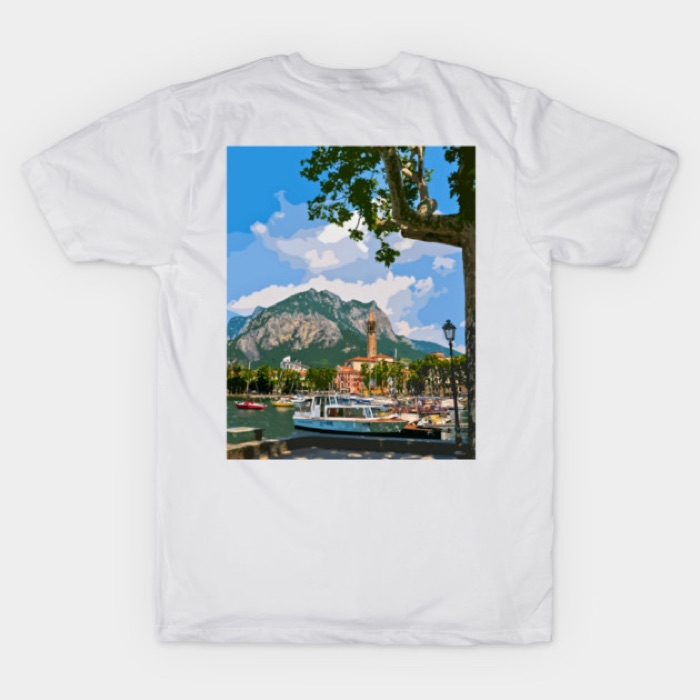
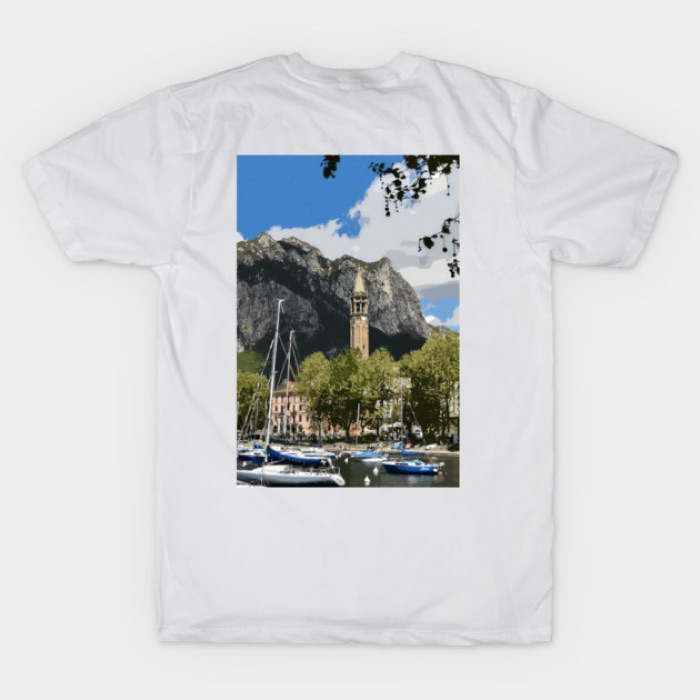
Update Lecco design/t-shirt photo, reorder reviews, style testimonials
- New Lecco artwork and matching updated t-shirt mockup from TeePublic
- Reviews now show 5-star ones first, then 4-star, then 3-star
- Testimonials section gets its own light-blue background and top
  accent to stand out from the sections around it

Changed region(s): [[0.3, 0.21, 0.69, 0.72]]

diff --git a/index.html b/index.html
@@ -9,7 +9,7 @@
 <link rel="preconnect" href="https://fonts.googleapis.com">
 <link rel="preconnect" href="https://fonts.gstatic.com" crossorigin>
 <link href="https://fonts.googleapis.com/css2?family=Great+Vibes&family=Raleway:wght@300;400;500;600&family=Playfair+Display:ital,wght@0,400;0,500;1,400&display=swap" rel="stylesheet">
-<link rel="stylesheet" href="css/style.css?v=2">
+<link rel="stylesheet" href="css/style.css?v=3">
 </head>
 <body>
 
@@ -170,8 +170,7 @@
     <div class="divider-line"></div>
     <div class="reviews-carousel">
     <button type="button" class="reviews-arrow reviews-arrow-prev" id="reviewsPrev" aria-label="Precedente">&larr;</button>
-    <div class="reviews-grid" id="reviewsGrid">
-      <div class="review-card">
+    <div class="reviews-grid" id="reviewsGrid"><div class="review-card">
         <div class="stars">
           <svg class="star-svg" viewBox="0 0 24 24"><path d="M12 2l3.09 6.26L22 9.27l-5 4.87 1.18 6.88L12 17.77l-6.18 3.25L7 14.14 2 9.27l6.91-1.01L12 2z"/></svg>
           <svg class="star-svg" viewBox="0 0 24 24"><path d="M12 2l3.09 6.26L22 9.27l-5 4.87 1.18 6.88L12 17.77l-6.18 3.25L7 14.14 2 9.27l6.91-1.01L12 2z"/></svg>
@@ -182,18 +181,7 @@
         <p class="review-text" data-i18n="reviews.r1.text">&ldquo;Ho comprato una t-shirt come ricordo della mia visita a Como. Qualit&agrave; eccellente, design unico &mdash; non si trova da nessun'altra parte.&rdquo;</p>
         <p class="review-author">Sarah M. <span data-i18n="reviews.r1.author">&middot; Londra, UK</span></p>
       </div>
-      <div class="review-card">
-        <div class="stars">
-          <svg class="star-svg" viewBox="0 0 24 24"><path d="M12 2l3.09 6.26L22 9.27l-5 4.87 1.18 6.88L12 17.77l-6.18 3.25L7 14.14 2 9.27l6.91-1.01L12 2z"/></svg>
-          <svg class="star-svg" viewBox="0 0 24 24"><path d="M12 2l3.09 6.26L22 9.27l-5 4.87 1.18 6.88L12 17.77l-6.18 3.25L7 14.14 2 9.27l6.91-1.01L12 2z"/></svg>
-          <svg class="star-svg" viewBox="0 0 24 24"><path d="M12 2l3.09 6.26L22 9.27l-5 4.87 1.18 6.88L12 17.77l-6.18 3.25L7 14.14 2 9.27l6.91-1.01L12 2z"/></svg>
-          <svg class="star-svg" viewBox="0 0 24 24"><path d="M12 2l3.09 6.26L22 9.27l-5 4.87 1.18 6.88L12 17.77l-6.18 3.25L7 14.14 2 9.27l6.91-1.01L12 2z"/></svg>
-          <svg class="star-svg star-empty" viewBox="0 0 24 24"><path d="M12 2l3.09 6.26L22 9.27l-5 4.87 1.18 6.88L12 17.77l-6.18 3.25L7 14.14 2 9.27l6.91-1.01L12 2z"/></svg>
-        </div>
-        <p class="review-text" data-i18n="reviews.r2.text">&ldquo;Ho proposto i prodotti nel mio negozio a Bellagio e i turisti li adorano. Design esclusivo, logistica semplicissima.&rdquo;</p>
-        <p class="review-author">Marco V. <span data-i18n="reviews.r2.author">&middot; Negozio, Bellagio</span></p>
-      </div>
-      <div class="review-card">
+<div class="review-card">
         <div class="stars">
           <svg class="star-svg" viewBox="0 0 24 24"><path d="M12 2l3.09 6.26L22 9.27l-5 4.87 1.18 6.88L12 17.77l-6.18 3.25L7 14.14 2 9.27l6.91-1.01L12 2z"/></svg>
           <svg class="star-svg" viewBox="0 0 24 24"><path d="M12 2l3.09 6.26L22 9.27l-5 4.87 1.18 6.88L12 17.77l-6.18 3.25L7 14.14 2 9.27l6.91-1.01L12 2z"/></svg>
@@ -204,62 +192,7 @@
         <p class="review-text" data-i18n="reviews.r3.text">&ldquo;Il poster di Varenna nella mia sala &egrave; uno spettacolo. Stampa di qualit&agrave; elevatissima, arrivata in tempi perfetti.&rdquo;</p>
         <p class="review-author">Klaus B. <span data-i18n="reviews.r3.author">&middot; Monaco, DE</span></p>
       </div>
-      <div class="review-card">
-        <div class="stars">
-          <svg class="star-svg" viewBox="0 0 24 24"><path d="M12 2l3.09 6.26L22 9.27l-5 4.87 1.18 6.88L12 17.77l-6.18 3.25L7 14.14 2 9.27l6.91-1.01L12 2z"/></svg>
-          <svg class="star-svg" viewBox="0 0 24 24"><path d="M12 2l3.09 6.26L22 9.27l-5 4.87 1.18 6.88L12 17.77l-6.18 3.25L7 14.14 2 9.27l6.91-1.01L12 2z"/></svg>
-          <svg class="star-svg" viewBox="0 0 24 24"><path d="M12 2l3.09 6.26L22 9.27l-5 4.87 1.18 6.88L12 17.77l-6.18 3.25L7 14.14 2 9.27l6.91-1.01L12 2z"/></svg>
-          <svg class="star-svg star-empty" viewBox="0 0 24 24"><path d="M12 2l3.09 6.26L22 9.27l-5 4.87 1.18 6.88L12 17.77l-6.18 3.25L7 14.14 2 9.27l6.91-1.01L12 2z"/></svg>
-          <svg class="star-svg star-empty" viewBox="0 0 24 24"><path d="M12 2l3.09 6.26L22 9.27l-5 4.87 1.18 6.88L12 17.77l-6.18 3.25L7 14.14 2 9.27l6.91-1.01L12 2z"/></svg>
-        </div>
-        <p class="review-text" data-i18n="reviews.r4.text">&ldquo;La grafica della t-shirt &egrave; davvero originale e rappresenta bene il Lago di Como. La vestibilit&agrave; per&ograve; &egrave; risultata un po&rsquo; pi&ugrave; piccola del previsto.&rdquo;</p>
-        <p class="review-author">Emily R. <span data-i18n="reviews.r4.author">&middot; Manchester, UK</span></p>
-      </div>
-      <div class="review-card">
-        <div class="stars">
-          <svg class="star-svg" viewBox="0 0 24 24"><path d="M12 2l3.09 6.26L22 9.27l-5 4.87 1.18 6.88L12 17.77l-6.18 3.25L7 14.14 2 9.27l6.91-1.01L12 2z"/></svg>
-          <svg class="star-svg" viewBox="0 0 24 24"><path d="M12 2l3.09 6.26L22 9.27l-5 4.87 1.18 6.88L12 17.77l-6.18 3.25L7 14.14 2 9.27l6.91-1.01L12 2z"/></svg>
-          <svg class="star-svg" viewBox="0 0 24 24"><path d="M12 2l3.09 6.26L22 9.27l-5 4.87 1.18 6.88L12 17.77l-6.18 3.25L7 14.14 2 9.27l6.91-1.01L12 2z"/></svg>
-          <svg class="star-svg" viewBox="0 0 24 24"><path d="M12 2l3.09 6.26L22 9.27l-5 4.87 1.18 6.88L12 17.77l-6.18 3.25L7 14.14 2 9.27l6.91-1.01L12 2z"/></svg>
-          <svg class="star-svg star-empty" viewBox="0 0 24 24"><path d="M12 2l3.09 6.26L22 9.27l-5 4.87 1.18 6.88L12 17.77l-6.18 3.25L7 14.14 2 9.27l6.91-1.01L12 2z"/></svg>
-        </div>
-        <p class="review-text" data-i18n="reviews.r5.text">&ldquo;Ho acquistato una stampa di Bellagio come regalo ed &egrave; stata molto apprezzata. Colori bellissimi e confezione curata.&rdquo;</p>
-        <p class="review-author">Sophie L. <span data-i18n="reviews.r5.author">&middot; Lione, FR</span></p>
-      </div>
-      <div class="review-card">
-        <div class="stars">
-          <svg class="star-svg" viewBox="0 0 24 24"><path d="M12 2l3.09 6.26L22 9.27l-5 4.87 1.18 6.88L12 17.77l-6.18 3.25L7 14.14 2 9.27l6.91-1.01L12 2z"/></svg>
-          <svg class="star-svg" viewBox="0 0 24 24"><path d="M12 2l3.09 6.26L22 9.27l-5 4.87 1.18 6.88L12 17.77l-6.18 3.25L7 14.14 2 9.27l6.91-1.01L12 2z"/></svg>
-          <svg class="star-svg" viewBox="0 0 24 24"><path d="M12 2l3.09 6.26L22 9.27l-5 4.87 1.18 6.88L12 17.77l-6.18 3.25L7 14.14 2 9.27l6.91-1.01L12 2z"/></svg>
-          <svg class="star-svg" viewBox="0 0 24 24"><path d="M12 2l3.09 6.26L22 9.27l-5 4.87 1.18 6.88L12 17.77l-6.18 3.25L7 14.14 2 9.27l6.91-1.01L12 2z"/></svg>
-          <svg class="star-svg star-empty" viewBox="0 0 24 24"><path d="M12 2l3.09 6.26L22 9.27l-5 4.87 1.18 6.88L12 17.77l-6.18 3.25L7 14.14 2 9.27l6.91-1.01L12 2z"/></svg>
-        </div>
-        <p class="review-text" data-i18n="reviews.r6.text">&ldquo;Design elegante e diverso dai soliti souvenir turistici. La spedizione ha richiesto qualche giorno in pi&ugrave;, ma il prodotto &egrave; ottimo.&rdquo;</p>
-        <p class="review-author">Thomas K. <span data-i18n="reviews.r6.author">&middot; Zurigo, CH</span></p>
-      </div>
-      <div class="review-card">
-        <div class="stars">
-          <svg class="star-svg" viewBox="0 0 24 24"><path d="M12 2l3.09 6.26L22 9.27l-5 4.87 1.18 6.88L12 17.77l-6.18 3.25L7 14.14 2 9.27l6.91-1.01L12 2z"/></svg>
-          <svg class="star-svg" viewBox="0 0 24 24"><path d="M12 2l3.09 6.26L22 9.27l-5 4.87 1.18 6.88L12 17.77l-6.18 3.25L7 14.14 2 9.27l6.91-1.01L12 2z"/></svg>
-          <svg class="star-svg" viewBox="0 0 24 24"><path d="M12 2l3.09 6.26L22 9.27l-5 4.87 1.18 6.88L12 17.77l-6.18 3.25L7 14.14 2 9.27l6.91-1.01L12 2z"/></svg>
-          <svg class="star-svg" viewBox="0 0 24 24"><path d="M12 2l3.09 6.26L22 9.27l-5 4.87 1.18 6.88L12 17.77l-6.18 3.25L7 14.14 2 9.27l6.91-1.01L12 2z"/></svg>
-          <svg class="star-svg star-empty" viewBox="0 0 24 24"><path d="M12 2l3.09 6.26L22 9.27l-5 4.87 1.18 6.88L12 17.77l-6.18 3.25L7 14.14 2 9.27l6.91-1.01L12 2z"/></svg>
-        </div>
-        <p class="review-text" data-i18n="reviews.r7.text">&ldquo;Le cartoline illustrate hanno attirato subito l&rsquo;attenzione dei clienti del nostro concept store. Riordino semplice e assistenza disponibile.&rdquo;</p>
-        <p class="review-author">Giulia P. <span data-i18n="reviews.r7.author">&middot; Como, IT</span></p>
-      </div>
-      <div class="review-card">
-        <div class="stars">
-          <svg class="star-svg" viewBox="0 0 24 24"><path d="M12 2l3.09 6.26L22 9.27l-5 4.87 1.18 6.88L12 17.77l-6.18 3.25L7 14.14 2 9.27l6.91-1.01L12 2z"/></svg>
-          <svg class="star-svg" viewBox="0 0 24 24"><path d="M12 2l3.09 6.26L22 9.27l-5 4.87 1.18 6.88L12 17.77l-6.18 3.25L7 14.14 2 9.27l6.91-1.01L12 2z"/></svg>
-          <svg class="star-svg" viewBox="0 0 24 24"><path d="M12 2l3.09 6.26L22 9.27l-5 4.87 1.18 6.88L12 17.77l-6.18 3.25L7 14.14 2 9.27l6.91-1.01L12 2z"/></svg>
-          <svg class="star-svg" viewBox="0 0 24 24"><path d="M12 2l3.09 6.26L22 9.27l-5 4.87 1.18 6.88L12 17.77l-6.18 3.25L7 14.14 2 9.27l6.91-1.01L12 2z"/></svg>
-          <svg class="star-svg star-empty" viewBox="0 0 24 24"><path d="M12 2l3.09 6.26L22 9.27l-5 4.87 1.18 6.88L12 17.77l-6.18 3.25L7 14.14 2 9.27l6.91-1.01L12 2z"/></svg>
-        </div>
-        <p class="review-text" data-i18n="reviews.r8.text">&ldquo;La felpa &egrave; morbida, ben rifinita e conserva perfettamente i colori dopo il lavaggio. Avrei gradito qualche taglia in pi&ugrave;.&rdquo;</p>
-        <p class="review-author">Daniel W. <span data-i18n="reviews.r8.author">&middot; Berlino, DE</span></p>
-      </div>
-      <div class="review-card">
+<div class="review-card">
         <div class="stars">
           <svg class="star-svg" viewBox="0 0 24 24"><path d="M12 2l3.09 6.26L22 9.27l-5 4.87 1.18 6.88L12 17.77l-6.18 3.25L7 14.14 2 9.27l6.91-1.01L12 2z"/></svg>
           <svg class="star-svg" viewBox="0 0 24 24"><path d="M12 2l3.09 6.26L22 9.27l-5 4.87 1.18 6.88L12 17.77l-6.18 3.25L7 14.14 2 9.27l6.91-1.01L12 2z"/></svg>
@@ -270,7 +203,7 @@
         <p class="review-text" data-i18n="reviews.r9.text">&ldquo;Finalmente un ricordo del Lago di Como che posso indossare anche tutti i giorni. La stampa &egrave; raffinata e il tessuto davvero piacevole.&rdquo;</p>
         <p class="review-author">Olivia S. <span data-i18n="reviews.r9.author">&middot; Bristol, UK</span></p>
       </div>
-      <div class="review-card">
+<div class="review-card">
         <div class="stars">
           <svg class="star-svg" viewBox="0 0 24 24"><path d="M12 2l3.09 6.26L22 9.27l-5 4.87 1.18 6.88L12 17.77l-6.18 3.25L7 14.14 2 9.27l6.91-1.01L12 2z"/></svg>
           <svg class="star-svg" viewBox="0 0 24 24"><path d="M12 2l3.09 6.26L22 9.27l-5 4.87 1.18 6.88L12 17.77l-6.18 3.25L7 14.14 2 9.27l6.91-1.01L12 2z"/></svg>
@@ -281,7 +214,7 @@
         <p class="review-text" data-i18n="reviews.r10.text">&ldquo;Abbiamo inserito poster e t-shirt nel nostro hotel boutique e gli ospiti chiedono continuamente dove acquistarli. Una collaborazione eccellente.&rdquo;</p>
         <p class="review-author">Andrea C. <span data-i18n="reviews.r10.author">&middot; Menaggio, IT</span></p>
       </div>
-      <div class="review-card">
+<div class="review-card">
         <div class="stars">
           <svg class="star-svg" viewBox="0 0 24 24"><path d="M12 2l3.09 6.26L22 9.27l-5 4.87 1.18 6.88L12 17.77l-6.18 3.25L7 14.14 2 9.27l6.91-1.01L12 2z"/></svg>
           <svg class="star-svg" viewBox="0 0 24 24"><path d="M12 2l3.09 6.26L22 9.27l-5 4.87 1.18 6.88L12 17.77l-6.18 3.25L7 14.14 2 9.27l6.91-1.01L12 2z"/></svg>
@@ -292,7 +225,7 @@
         <p class="review-text" data-i18n="reviews.r11.text">&ldquo;Il poster di Como ha trasformato un angolo del mio studio. La carta &egrave; spessa, i colori splendidi e l&rsquo;imballaggio impeccabile.&rdquo;</p>
         <p class="review-author">Claire D. <span data-i18n="reviews.r11.author">&middot; Parigi, FR</span></p>
       </div>
-      <div class="review-card">
+<div class="review-card">
         <div class="stars">
           <svg class="star-svg" viewBox="0 0 24 24"><path d="M12 2l3.09 6.26L22 9.27l-5 4.87 1.18 6.88L12 17.77l-6.18 3.25L7 14.14 2 9.27l6.91-1.01L12 2z"/></svg>
           <svg class="star-svg" viewBox="0 0 24 24"><path d="M12 2l3.09 6.26L22 9.27l-5 4.87 1.18 6.88L12 17.77l-6.18 3.25L7 14.14 2 9.27l6.91-1.01L12 2z"/></svg>
@@ -303,7 +236,7 @@
         <p class="review-text" data-i18n="reviews.r12.text">&ldquo;Ho comprato due t-shirt durante il viaggio: una per me e una da regalare. Sono diventate il souvenir preferito di tutta la vacanza.&rdquo;</p>
         <p class="review-author">Michael T. <span data-i18n="reviews.r12.author">&middot; Dublino, IE</span></p>
       </div>
-      <div class="review-card">
+<div class="review-card">
         <div class="stars">
           <svg class="star-svg" viewBox="0 0 24 24"><path d="M12 2l3.09 6.26L22 9.27l-5 4.87 1.18 6.88L12 17.77l-6.18 3.25L7 14.14 2 9.27l6.91-1.01L12 2z"/></svg>
           <svg class="star-svg" viewBox="0 0 24 24"><path d="M12 2l3.09 6.26L22 9.27l-5 4.87 1.18 6.88L12 17.77l-6.18 3.25L7 14.14 2 9.27l6.91-1.01L12 2z"/></svg>
@@ -315,6 +248,72 @@
         <p class="review-author">Francesca B. <span data-i18n="reviews.r13.author">&middot; Boutique Varenna, IT</span></p>
       </div>
     </div>
+<div class="review-card">
+        <div class="stars">
+          <svg class="star-svg" viewBox="0 0 24 24"><path d="M12 2l3.09 6.26L22 9.27l-5 4.87 1.18 6.88L12 17.77l-6.18 3.25L7 14.14 2 9.27l6.91-1.01L12 2z"/></svg>
+          <svg class="star-svg" viewBox="0 0 24 24"><path d="M12 2l3.09 6.26L22 9.27l-5 4.87 1.18 6.88L12 17.77l-6.18 3.25L7 14.14 2 9.27l6.91-1.01L12 2z"/></svg>
+          <svg class="star-svg" viewBox="0 0 24 24"><path d="M12 2l3.09 6.26L22 9.27l-5 4.87 1.18 6.88L12 17.77l-6.18 3.25L7 14.14 2 9.27l6.91-1.01L12 2z"/></svg>
+          <svg class="star-svg" viewBox="0 0 24 24"><path d="M12 2l3.09 6.26L22 9.27l-5 4.87 1.18 6.88L12 17.77l-6.18 3.25L7 14.14 2 9.27l6.91-1.01L12 2z"/></svg>
+          <svg class="star-svg star-empty" viewBox="0 0 24 24"><path d="M12 2l3.09 6.26L22 9.27l-5 4.87 1.18 6.88L12 17.77l-6.18 3.25L7 14.14 2 9.27l6.91-1.01L12 2z"/></svg>
+        </div>
+        <p class="review-text" data-i18n="reviews.r2.text">&ldquo;Ho proposto i prodotti nel mio negozio a Bellagio e i turisti li adorano. Design esclusivo, logistica semplicissima.&rdquo;</p>
+        <p class="review-author">Marco V. <span data-i18n="reviews.r2.author">&middot; Negozio, Bellagio</span></p>
+      </div>
+<div class="review-card">
+        <div class="stars">
+          <svg class="star-svg" viewBox="0 0 24 24"><path d="M12 2l3.09 6.26L22 9.27l-5 4.87 1.18 6.88L12 17.77l-6.18 3.25L7 14.14 2 9.27l6.91-1.01L12 2z"/></svg>
+          <svg class="star-svg" viewBox="0 0 24 24"><path d="M12 2l3.09 6.26L22 9.27l-5 4.87 1.18 6.88L12 17.77l-6.18 3.25L7 14.14 2 9.27l6.91-1.01L12 2z"/></svg>
+          <svg class="star-svg" viewBox="0 0 24 24"><path d="M12 2l3.09 6.26L22 9.27l-5 4.87 1.18 6.88L12 17.77l-6.18 3.25L7 14.14 2 9.27l6.91-1.01L12 2z"/></svg>
+          <svg class="star-svg" viewBox="0 0 24 24"><path d="M12 2l3.09 6.26L22 9.27l-5 4.87 1.18 6.88L12 17.77l-6.18 3.25L7 14.14 2 9.27l6.91-1.01L12 2z"/></svg>
+          <svg class="star-svg star-empty" viewBox="0 0 24 24"><path d="M12 2l3.09 6.26L22 9.27l-5 4.87 1.18 6.88L12 17.77l-6.18 3.25L7 14.14 2 9.27l6.91-1.01L12 2z"/></svg>
+        </div>
+        <p class="review-text" data-i18n="reviews.r5.text">&ldquo;Ho acquistato una stampa di Bellagio come regalo ed &egrave; stata molto apprezzata. Colori bellissimi e confezione curata.&rdquo;</p>
+        <p class="review-author">Sophie L. <span data-i18n="reviews.r5.author">&middot; Lione, FR</span></p>
+      </div>
+<div class="review-card">
+        <div class="stars">
+          <svg class="star-svg" viewBox="0 0 24 24"><path d="M12 2l3.09 6.26L22 9.27l-5 4.87 1.18 6.88L12 17.77l-6.18 3.25L7 14.14 2 9.27l6.91-1.01L12 2z"/></svg>
+          <svg class="star-svg" viewBox="0 0 24 24"><path d="M12 2l3.09 6.26L22 9.27l-5 4.87 1.18 6.88L12 17.77l-6.18 3.25L7 14.14 2 9.27l6.91-1.01L12 2z"/></svg>
+          <svg class="star-svg" viewBox="0 0 24 24"><path d="M12 2l3.09 6.26L22 9.27l-5 4.87 1.18 6.88L12 17.77l-6.18 3.25L7 14.14 2 9.27l6.91-1.01L12 2z"/></svg>
+          <svg class="star-svg" viewBox="0 0 24 24"><path d="M12 2l3.09 6.26L22 9.27l-5 4.87 1.18 6.88L12 17.77l-6.18 3.25L7 14.14 2 9.27l6.91-1.01L12 2z"/></svg>
+          <svg class="star-svg star-empty" viewBox="0 0 24 24"><path d="M12 2l3.09 6.26L22 9.27l-5 4.87 1.18 6.88L12 17.77l-6.18 3.25L7 14.14 2 9.27l6.91-1.01L12 2z"/></svg>
+        </div>
+        <p class="review-text" data-i18n="reviews.r6.text">&ldquo;Design elegante e diverso dai soliti souvenir turistici. La spedizione ha richiesto qualche giorno in pi&ugrave;, ma il prodotto &egrave; ottimo.&rdquo;</p>
+        <p class="review-author">Thomas K. <span data-i18n="reviews.r6.author">&middot; Zurigo, CH</span></p>
+      </div>
+<div class="review-card">
+        <div class="stars">
+          <svg class="star-svg" viewBox="0 0 24 24"><path d="M12 2l3.09 6.26L22 9.27l-5 4.87 1.18 6.88L12 17.77l-6.18 3.25L7 14.14 2 9.27l6.91-1.01L12 2z"/></svg>
+          <svg class="star-svg" viewBox="0 0 24 24"><path d="M12 2l3.09 6.26L22 9.27l-5 4.87 1.18 6.88L12 17.77l-6.18 3.25L7 14.14 2 9.27l6.91-1.01L12 2z"/></svg>
+          <svg class="star-svg" viewBox="0 0 24 24"><path d="M12 2l3.09 6.26L22 9.27l-5 4.87 1.18 6.88L12 17.77l-6.18 3.25L7 14.14 2 9.27l6.91-1.01L12 2z"/></svg>
+          <svg class="star-svg" viewBox="0 0 24 24"><path d="M12 2l3.09 6.26L22 9.27l-5 4.87 1.18 6.88L12 17.77l-6.18 3.25L7 14.14 2 9.27l6.91-1.01L12 2z"/></svg>
+          <svg class="star-svg star-empty" viewBox="0 0 24 24"><path d="M12 2l3.09 6.26L22 9.27l-5 4.87 1.18 6.88L12 17.77l-6.18 3.25L7 14.14 2 9.27l6.91-1.01L12 2z"/></svg>
+        </div>
+        <p class="review-text" data-i18n="reviews.r7.text">&ldquo;Le cartoline illustrate hanno attirato subito l&rsquo;attenzione dei clienti del nostro concept store. Riordino semplice e assistenza disponibile.&rdquo;</p>
+        <p class="review-author">Giulia P. <span data-i18n="reviews.r7.author">&middot; Como, IT</span></p>
+      </div>
+<div class="review-card">
+        <div class="stars">
+          <svg class="star-svg" viewBox="0 0 24 24"><path d="M12 2l3.09 6.26L22 9.27l-5 4.87 1.18 6.88L12 17.77l-6.18 3.25L7 14.14 2 9.27l6.91-1.01L12 2z"/></svg>
+          <svg class="star-svg" viewBox="0 0 24 24"><path d="M12 2l3.09 6.26L22 9.27l-5 4.87 1.18 6.88L12 17.77l-6.18 3.25L7 14.14 2 9.27l6.91-1.01L12 2z"/></svg>
+          <svg class="star-svg" viewBox="0 0 24 24"><path d="M12 2l3.09 6.26L22 9.27l-5 4.87 1.18 6.88L12 17.77l-6.18 3.25L7 14.14 2 9.27l6.91-1.01L12 2z"/></svg>
+          <svg class="star-svg" viewBox="0 0 24 24"><path d="M12 2l3.09 6.26L22 9.27l-5 4.87 1.18 6.88L12 17.77l-6.18 3.25L7 14.14 2 9.27l6.91-1.01L12 2z"/></svg>
+          <svg class="star-svg star-empty" viewBox="0 0 24 24"><path d="M12 2l3.09 6.26L22 9.27l-5 4.87 1.18 6.88L12 17.77l-6.18 3.25L7 14.14 2 9.27l6.91-1.01L12 2z"/></svg>
+        </div>
+        <p class="review-text" data-i18n="reviews.r8.text">&ldquo;La felpa &egrave; morbida, ben rifinita e conserva perfettamente i colori dopo il lavaggio. Avrei gradito qualche taglia in pi&ugrave;.&rdquo;</p>
+        <p class="review-author">Daniel W. <span data-i18n="reviews.r8.author">&middot; Berlino, DE</span></p>
+      </div>
+<div class="review-card">
+        <div class="stars">
+          <svg class="star-svg" viewBox="0 0 24 24"><path d="M12 2l3.09 6.26L22 9.27l-5 4.87 1.18 6.88L12 17.77l-6.18 3.25L7 14.14 2 9.27l6.91-1.01L12 2z"/></svg>
+          <svg class="star-svg" viewBox="0 0 24 24"><path d="M12 2l3.09 6.26L22 9.27l-5 4.87 1.18 6.88L12 17.77l-6.18 3.25L7 14.14 2 9.27l6.91-1.01L12 2z"/></svg>
+          <svg class="star-svg" viewBox="0 0 24 24"><path d="M12 2l3.09 6.26L22 9.27l-5 4.87 1.18 6.88L12 17.77l-6.18 3.25L7 14.14 2 9.27l6.91-1.01L12 2z"/></svg>
+          <svg class="star-svg star-empty" viewBox="0 0 24 24"><path d="M12 2l3.09 6.26L22 9.27l-5 4.87 1.18 6.88L12 17.77l-6.18 3.25L7 14.14 2 9.27l6.91-1.01L12 2z"/></svg>
+          <svg class="star-svg star-empty" viewBox="0 0 24 24"><path d="M12 2l3.09 6.26L22 9.27l-5 4.87 1.18 6.88L12 17.77l-6.18 3.25L7 14.14 2 9.27l6.91-1.01L12 2z"/></svg>
+        </div>
+        <p class="review-text" data-i18n="reviews.r4.text">&ldquo;La grafica della t-shirt &egrave; davvero originale e rappresenta bene il Lago di Como. La vestibilit&agrave; per&ograve; &egrave; risultata un po&rsquo; pi&ugrave; piccola del previsto.&rdquo;</p>
+        <p class="review-author">Emily R. <span data-i18n="reviews.r4.author">&middot; Manchester, UK</span></p>
+      </div>
     <button type="button" class="reviews-arrow reviews-arrow-next" id="reviewsNext" aria-label="Successivo">&rarr;</button>
     </div>
   </div>

diff --git a/css/style.css b/css/style.css
@@ -248,7 +248,15 @@ section{padding:5.5rem 6%}
 .cat-footer{text-align:center;margin-top:2.5rem}
 
 /* REVIEWS */
-#testimonianze{background:var(--ivory)}
+#testimonianze{
+  background:linear-gradient(180deg, #eaf6fb 0%, #dcedf5 100%);
+  padding-top:6.5rem;padding-bottom:6.5rem;
+  position:relative;
+}
+#testimonianze::before{
+  content:'';position:absolute;top:0;left:0;right:0;height:4px;
+  background:var(--grad);
+}
 .reviews-carousel{position:relative;display:flex;align-items:center;gap:0.8rem;margin-top:3rem}
 .reviews-grid{
   display:flex;gap:1.5rem;padding-bottom:1.2rem;flex:1;min-width:0;
